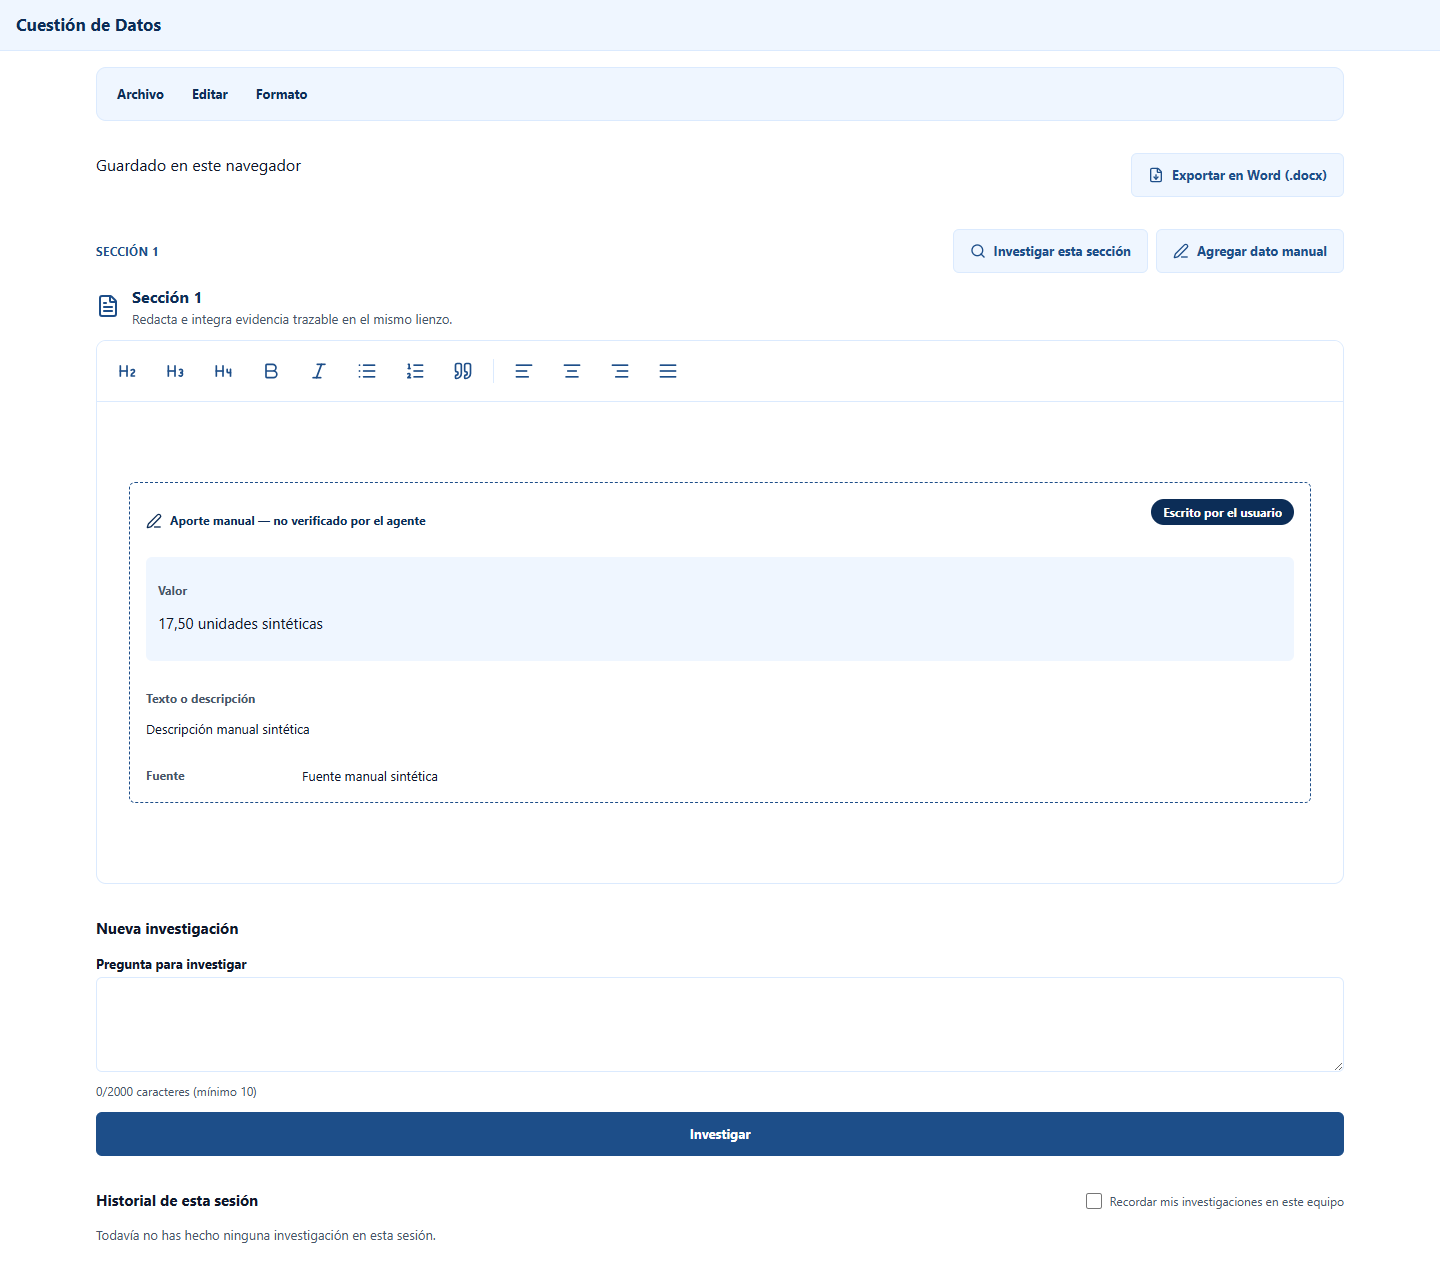
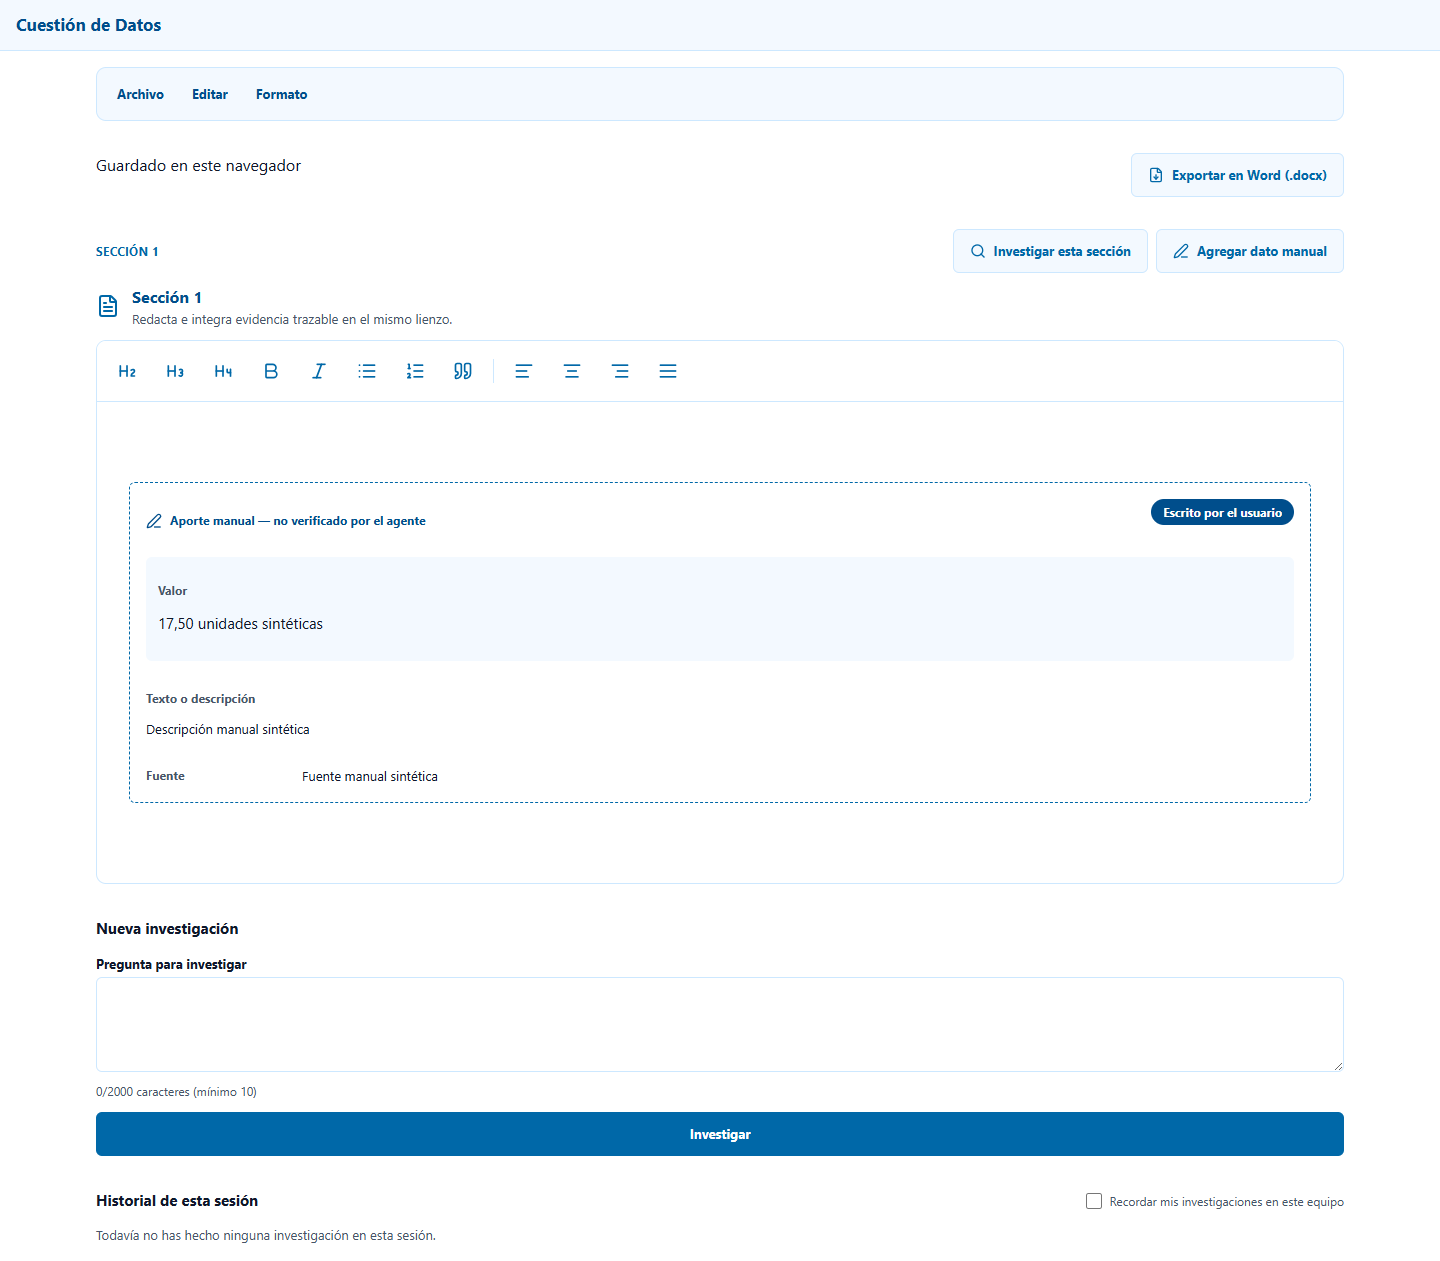
feat(frontend): recalibrar la paleta azul a matices inspirados en VS Code
Segundo commit independiente, sobre la misma estructura monocromatica ya
aprobada (5 pasos, mismo rol de cada tono) - solo cambian los hexadecimales
en tokens.css, fuente unica de verdad.

Verificacion WCAG previa a cualquier cambio (formula oficial, no
aproximada): blue-900/blue-100/blue-50 son el valor VS Code literal sin
ajustar (pasan con margen amplio). blue-700 y blue-500 SI fallaban con el
valor VS Code literal:
- blue-700 (#007acc) como texto sobre blue-50/blue-100: 4.25:1 y 3.56:1
  (se necesita 4.5:1) - afecta el boton "secondary" ya existente.
- blue-500 (#3794ff, anillo de foco) sobre blue-50/blue-100: 2.89:1 y
  2.42:1 (se necesita 3:1 para componentes no textuales).

Reportado al usuario antes de sustituir, con alternativas calculadas; el
usuario eligio oscurecer ambos un paso (blue-700 -> #0068a8, blue-500 ->
#1f7ee0), que ya pasan en todas las combinaciones reales con margen.

- tokens.css, DESIGN.md (frontmatter + prosa) actualizados con los 5 hex
  nuevos y una nota de procedencia/ajuste.
- Centralizado el unico color directo real encontrado: EvidenceChart.jsx
  tenia "#1d4e89" (blue-700 viejo) hardcodeado para Chart.js (que no puede
  leer variables CSS). Nuevo frontend/lib/design/colorTokens.js expone
  CDT_BLUE_700 como espejo JS unico permitido fuera de tokens.css; un test
  nuevo compara ambos valores para que no puedan desincronizarse. El otro
  hex de globals.css (#9b2c2c) es un :focus heredado del frontend LEGACY,
[…]

diff --git a/frontend/tests/unit/ui/contrast.test.js b/frontend/tests/unit/ui/contrast.test.js
@@ -7,11 +7,11 @@ import { describe, expect, it } from "vitest";
  * parejas que el código de `frontend/components/ui/` produce.
  */
 const TOKENS = {
-  "blue-900": "#0c2d57",
-  "blue-700": "#1d4e89",
-  "blue-500": "#2e7cd6",
-  "blue-100": "#dbeafe",
-  "blue-50": "#eff6ff",
+  "blue-900": "#004e8c",
+  "blue-700": "#0068a8",
+  "blue-500": "#1f7ee0",
+  "blue-100": "#cde8ff",
+  "blue-50": "#f3f9ff",
   white: "#ffffff",
   "slate-900": "#0f172a",
   "slate-600": "#475569",
@@ -53,6 +53,8 @@ const AA_NORMAL_TEXT = 4.5;
 // Cada pareja [texto, fondo] realmente usada en components/ui/*.jsx.
 const USED_PAIRS = [
   ["blue-700", "white"], // Button secundaria/quiet, enlaces
+  ["blue-700", "blue-50"], // Button secundaria en reposo (fondo propio, F1-05-R1)
+  ["blue-700", "blue-100"], // Button secundaria/quiet en hover
   ["blue-900", "white"], // Títulos, hover primaria
   ["slate-900", "white"], // Cuerpo de texto
   ["slate-600", "white"], // Texto secundario
@@ -74,6 +76,22 @@ describe("contraste WCAG 2.2 AA — parejas texto/fondo reales", () => {
   it("blue-500 sobre white NO cumple 4.5:1 para texto normal (por eso nunca es color de texto)", () => {
     const ratio = contrastRatio(TOKENS["blue-500"], TOKENS.white);
     expect(ratio).toBeLessThan(AA_NORMAL_TEXT);
+  });
+});
+
+const AA_NON_TEXT = 3;
+
+// blue-500 nunca es texto (ver arriba), pero SÍ es el color del anillo de
+// foco (`--cdt-focus-ring-color`) y del icono de paso activo — ambos son
+// componentes de interfaz, no texto: el umbral WCAG 1.4.11 aplicable es
+// 3:1, contra CUALQUIER fondo real donde un elemento enfocable pueda vivir
+// (lienzo blanco, cabeceras/zonas blue-50, tarjetas/chips blue-100).
+const FOCUS_RING_BACKGROUNDS = ["white", "blue-50", "blue-100"];
+
+describe("contraste WCAG 1.4.11 (no textual) — anillo de foco / icono activo sobre cualquier fondo real", () => {
+  it.each(FOCUS_RING_BACKGROUNDS)("blue-500 sobre %s cumple ≥3:1", (bgName) => {
+    const ratio = contrastRatio(TOKENS["blue-500"], TOKENS[bgName]);
+    expect(ratio).toBeGreaterThanOrEqual(AA_NON_TEXT);
   });
 });
 

diff --git a/frontend/tests/unit/ui/tokens.test.js b/frontend/tests/unit/ui/tokens.test.js
@@ -1,6 +1,7 @@
 import { readFileSync } from "node:fs";
 import path from "node:path";
 import { describe, expect, it } from "vitest";
+import { CDT_BLUE_700 } from "../../../lib/design/colorTokens.js";
 
 // Los 12 tokens cromáticos exactos exigidos por el encargo F1-01
 // (idénticos a constitution.md Art. V y plan.md §7). Se leen directamente
@@ -15,11 +16,11 @@ function readVar(name) {
 }
 
 const EXPECTED_TOKENS = {
-  "--cdt-blue-900": "#0c2d57",
-  "--cdt-blue-700": "#1d4e89",
-  "--cdt-blue-500": "#2e7cd6",
-  "--cdt-blue-100": "#dbeafe",
-  "--cdt-blue-50": "#eff6ff",
+  "--cdt-blue-900": "#004e8c",
+  "--cdt-blue-700": "#0068a8",
+  "--cdt-blue-500": "#1f7ee0",
+  "--cdt-blue-100": "#cde8ff",
+  "--cdt-blue-50": "#f3f9ff",
   "--cdt-white": "#ffffff",
   "--cdt-slate-900": "#0f172a",
   "--cdt-slate-600": "#475569",
@@ -35,6 +36,10 @@ describe("tokens.css — fuente única de verdad", () => {
       const actual = readVar(name)?.toLowerCase();
       expect(actual, `${name} debería ser ${expected}`).toBe(expected);
     }
+  });
+
+  it("lib/design/colorTokens.js (espejo JS para Chart.js) nunca se desincroniza de --cdt-blue-700", () => {
+    expect(CDT_BLUE_700).toBe(readVar("--cdt-blue-700"));
   });
 
   it("expone exactamente dos pesos tipográficos: 400 y 700", () => {

diff --git a/frontend/pages/_dev/ui.js b/frontend/pages/_dev/ui.js
@@ -47,11 +47,11 @@ import { DEMO_SCENARIOS, makeDemoAgentClient } from "../../lib/gallery/agentDemo
  */
 
 const TOKENS = [
-  { name: "blue-900", hex: "#0C2D57", className: "bg-cdt-blue-900" },
-  { name: "blue-700", hex: "#1D4E89", className: "bg-cdt-blue-700" },
-  { name: "blue-500", hex: "#2E7CD6", className: "bg-cdt-blue-500" },
-  { name: "blue-100", hex: "#DBEAFE", className: "bg-cdt-blue-100" },
-  { name: "blue-50", hex: "#EFF6FF", className: "bg-cdt-blue-50" },
+  { name: "blue-900", hex: "#004E8C", className: "bg-cdt-blue-900" },
+  { name: "blue-700", hex: "#0068A8", className: "bg-cdt-blue-700" },
+  { name: "blue-500", hex: "#1F7EE0", className: "bg-cdt-blue-500" },
+  { name: "blue-100", hex: "#CDE8FF", className: "bg-cdt-blue-100" },
+  { name: "blue-50", hex: "#F3F9FF", className: "bg-cdt-blue-50" },
   { name: "white", hex: "#FFFFFF", className: "bg-cdt-white border border-cdt-blue-100" },
   { name: "slate-900", hex: "#0F172A", className: "bg-cdt-slate-900" },
   { name: "slate-600", hex: "#475569", className: "bg-cdt-slate-600" },

diff --git a/frontend/styles/tokens.css b/frontend/styles/tokens.css
@@ -12,12 +12,19 @@
  * inventan aquí, se transcriben.
  */
 :root {
-  /* Color — paleta azul monocromática + neutros + semánticos */
-  --cdt-blue-900: #0c2d57;
-  --cdt-blue-700: #1d4e89;
-  --cdt-blue-500: #2e7cd6;
-  --cdt-blue-100: #dbeafe;
-  --cdt-blue-50: #eff6ff;
+  /* Color — paleta azul monocromática + neutros + semánticos. Matices
+   * inspirados en el azul característico de VS Code (revisión de
+   * dirección posterior a DESIGN-01, sobre la misma estructura
+   * monocromática ya aprobada). blue-700 y blue-500 se oscurecieron un
+   * paso respecto al valor VS Code literal (#007acc/#3794ff) tras
+   * comprobación WCAG: ambos fallaban contraste como texto/foco sobre
+   * blue-50/blue-100 (ver tests/unit/ui/contrast.test.js). blue-900,
+   * blue-100 y blue-50 son el valor VS Code sin ajustar. */
+  --cdt-blue-900: #004e8c;
+  --cdt-blue-700: #0068a8;
+  --cdt-blue-500: #1f7ee0;
+  --cdt-blue-100: #cde8ff;
+  --cdt-blue-50: #f3f9ff;
   --cdt-white: #ffffff;
   --cdt-slate-900: #0f172a;
   --cdt-slate-600: #475569;

diff --git a/frontend/components/evidence/EvidenceChart.jsx b/frontend/components/evidence/EvidenceChart.jsx
@@ -9,6 +9,7 @@ import {
 } from "chart.js";
 import { Bar, Line } from "react-chartjs-2";
 import { resolveEvidenceColumns, buildEvidenceChartSpec } from "../../lib/evidence";
+import { CDT_BLUE_700 } from "../../lib/design/colorTokens";
 
 // Registro mínimo: solo los elementos que los dos tipos soportados por
 // `chartSpec.js` (`bar`/`line`) necesitan — nunca `chart.js/auto`, que
@@ -45,8 +46,8 @@ export function EvidenceChart({ evidence, claims }) {
       {
         label: spec.yLabel,
         data: spec.values,
-        backgroundColor: "#1d4e89",
-        borderColor: "#1d4e89",
+        backgroundColor: CDT_BLUE_700,
+        borderColor: CDT_BLUE_700,
       },
     ],
   };

diff --git a/frontend/lib/design/colorTokens.js b/frontend/lib/design/colorTokens.js
@@ -1,0 +1,11 @@
+/**
+ * Espejo JS de un solo valor de `styles/tokens.css` (paleta inspirada en
+ * VS Code, revisión de dirección posterior a DESIGN-01). Existe porque
+ * Chart.js recibe colores como strings en tiempo de configuración de
+ * JavaScript — no puede leer una variable CSS. Esta es la ÚNICA copia de
+ * `--cdt-blue-700` permitida fuera de `tokens.css`; ningún componente debe
+ * escribir un hexadecimal propio. `tests/unit/ui/tokens.test.js` compara
+ * este valor contra `tokens.css` para que no puedan desincronizarse en
+ * silencio.
+ */
+export const CDT_BLUE_700 = "#0068a8";

diff --git a/frontend/tests/unit/evidence/components.test.jsx b/frontend/tests/unit/evidence/components.test.jsx
@@ -243,9 +243,9 @@ describe("QualityBadge — contraste WCAG 2.2 AA real de las cinco combinaciones
   // fondo `blue-100`/texto `blue-900` para "media" no es una pareja ya
   // cubierta por esa suite genérica de F1-01.
   const TOKENS = {
-    "blue-900": "#0c2d57",
-    "blue-700": "#1d4e89",
-    "blue-100": "#dbeafe",
+    "blue-900": "#004e8c",
+    "blue-700": "#0068a8",
+    "blue-100": "#cde8ff",
     white: "#ffffff",
     "slate-600": "#475569",
     warning: "#b45309",

diff --git a/DESIGN.md b/DESIGN.md
@@ -2,11 +2,11 @@
 name: Cuestión de Datos — Pulso por lo Público
 description: Sala de seguimiento de políticas públicas y sistema de orientación cívica; la investigación de datos abiertos se recorre como una ruta verificable, no se conversa con ella.
 colors:
-  blue-900: "#0C2D57"
-  blue-700: "#1D4E89"
-  blue-500: "#2E7CD6"
-  blue-100: "#DBEAFE"
-  blue-50: "#EFF6FF"
+  blue-900: "#004E8C"
+  blue-700: "#0068A8"
+  blue-500: "#1F7EE0"
+  blue-100: "#CDE8FF"
+  blue-50: "#F3F9FF"
   white: "#FFFFFF"
   slate-900: "#0F172A"
   slate-600: "#475569"
@@ -128,14 +128,24 @@ decisión de marca abierta. Fuente de verdad única en
 prefijo `cdt-` (`bg-cdt-blue-700`, etc.) para no chocar con la paleta por
 defecto de Tailwind que el frontend legacy sigue usando con otros valores.
 
+**Revisión de matices (posterior a DESIGN-01, aprobada explícitamente por
+el usuario):** los cinco tonos de azul se recalibraron con una paleta
+inspirada en el azul característico de VS Code, conservando exactamente la
+misma estructura monocromática (5 pasos, mismo rol de cada uno).
+`blue-900`, `blue-100` y `blue-50` son el valor VS Code sin ajustar;
+`blue-700` y `blue-500` se oscurecieron un paso frente al valor VS Code
+literal (`#007ACC`/`#3794FF`) porque fallaban contraste WCAG como
+texto/anillo de foco sobre `blue-50`/`blue-100` — ver
+`frontend/tests/unit/ui/contrast.test.js`, que hace cumplir esto en CI.
+
 ### Primary
-- **Azul profundo** (`#0C2D57`, `blue-900`): titulares, navegación, hover del botón primario. Es el ancla de autoridad — donde el ojo debe leer "esto es serio y verificado".
-- **Azul medio** (`#1D4E89`, `blue-700`): botones primarios, enlaces. El color de la acción disponible.
-- **Azul acento** (`#2E7CD6`, `blue-500`): foco, elementos activos del agente mientras investiga — el color del "esto está pasando ahora".
+- **Azul profundo** (`#004E8C`, `blue-900`): titulares, navegación, hover del botón primario. Es el ancla de autoridad — donde el ojo debe leer "esto es serio y verificado".
+- **Azul medio** (`#0068A8`, `blue-700`): botones primarios, enlaces. El color de la acción disponible.
+- **Azul acento** (`#1F7EE0`, `blue-500`): foco, elementos activos del agente mientras investiga — el color del "esto está pasando ahora".
 
 ### Neutral
-- **Fondo tarjeta de evidencia** (`#DBEAFE`, `blue-100`): fondos de tarjetas de evidencia y chips — nunca para texto.
-- **Fondo de sección** (`#EFF6FF`, `blue-50`): separación de zonas sin bordes duros.
+- **Fondo tarjeta de evidencia** (`#CDE8FF`, `blue-100`): fondos de tarjetas de evidencia y chips — nunca para texto.
+- **Fondo de sección** (`#F3F9FF`, `blue-50`): separación de zonas sin bordes duros.
 - **Blanco** (`#FFFFFF`): fondo base, el lienzo en reposo.
 - **Slate 900/600/400**: texto principal / secundario / deshabilitado.
 
